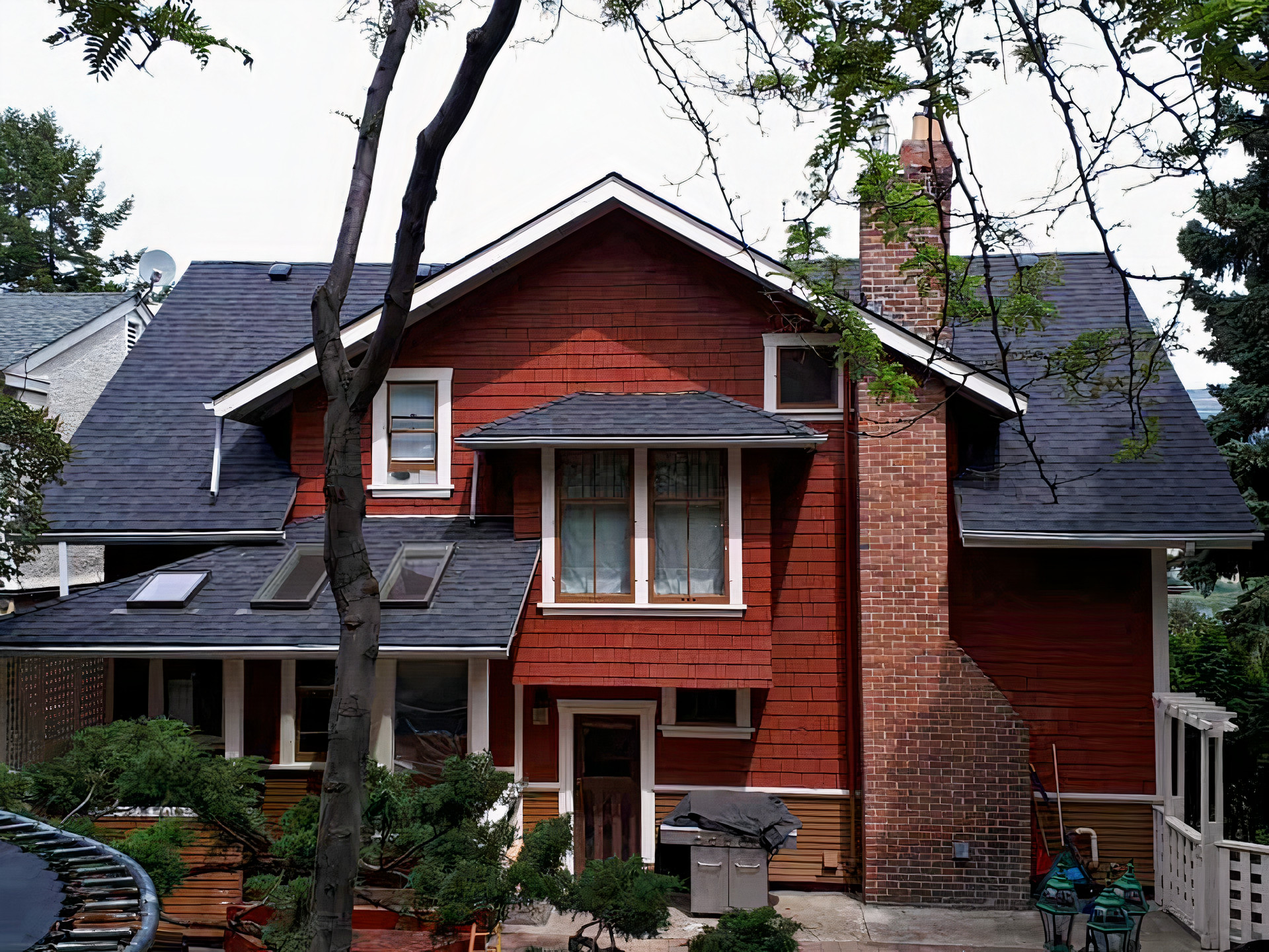
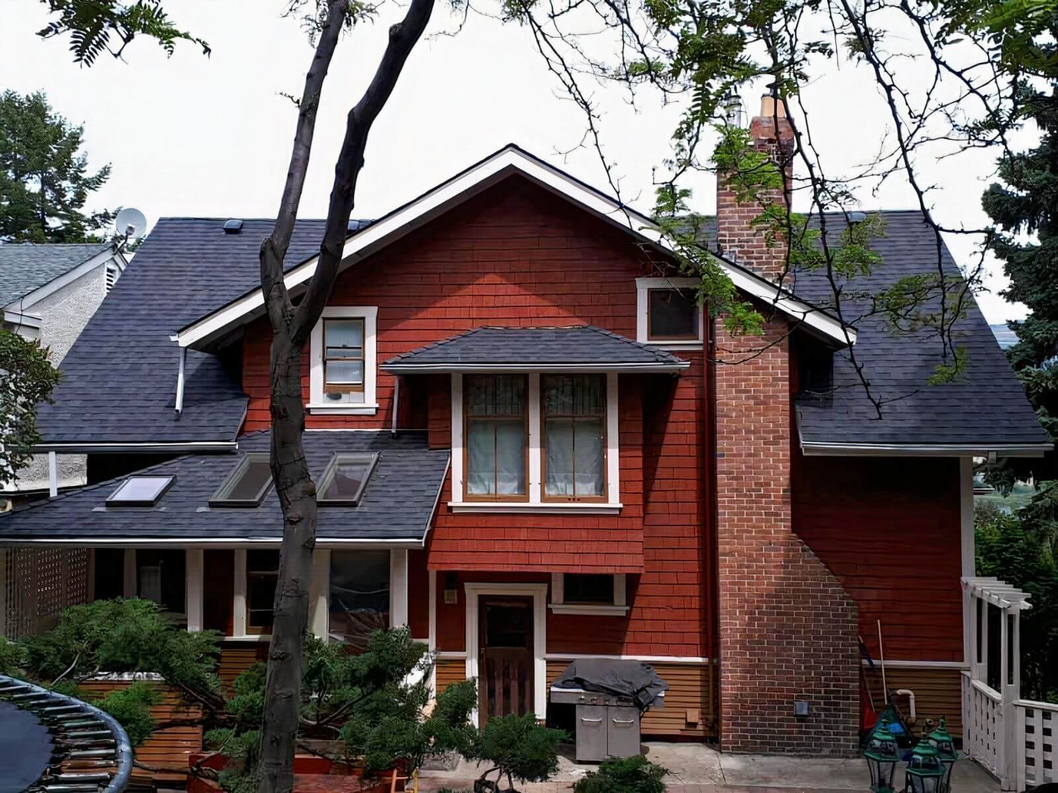
Better mobile, pics

diff --git a/index.html b/index.html
@@ -42,6 +42,12 @@
             .text-shadow {
                 text-shadow: 1px 1px 6px rgba(0,0,0,.4);
             }
+            
+            @media all and (max-height: 600px) and (max-width: 767px) {
+    
+                .center-mobile {
+                    text-align: center;
+                }
         
         </style>
 
@@ -133,7 +139,7 @@
                     <div class="container">
                         <div class="row">
                             <div class="col-3 col-md-2">
-                                <a href="index.html"> <img class="logo logo-dark" alt="logo" src="img/logo-dark.png"> <img class="logo logo-light" alt="logo" src="img/logo-light.png"> </a>
+                                <a href="index.html">  <img class="logo logo-light" alt="logo" src="img/logo-light.png"> </a>
                             </div>
                             <div class="col-9 col-md-10 text-right">
                                 <a href="#" class="hamburger-toggle" data-toggle-class="#menu1;hidden-xs hidden-sm"> <i class="icon icon--sm stack-interface stack-menu"></i> </a>
@@ -190,7 +196,7 @@
                 <div class="container pos-vertical-center">
                     <div class="row justify-content-between align-items-center">
                         <div class="col-lg-5 col-md-7">
-                            <div class="switchable__text" class="">
+                            <div class="switchable__text center-mobile" class="">
                                 <img class="logo logo-light" alt="logo" style="max-width: 288px" src="img/logo-light.png"> </a>
                                 <h3><b>Kamloops Roofing &amp; Renovation</b></h3>
                                 <p class="lead text-shadow"><strong style="color:white">Roofing for Kamloops, Lillooet, and Merritt. </strong><br>We ensure your roof protects your home from all of BC’s weather - keeping you and your family safe and sound all year round. </p>
@@ -232,7 +238,7 @@
                 </div>
             </section>
             
-            <section class="switchable switchable--switch imagebg height-60" data-overlay="4">
+            <section class="switchable switchable--switch imagebg height-70" data-overlay="5">
                 <div class="background-image-holder"><img alt="background" src="img/4.jpg"></div>
                 <div class="container pos-vertical-center">
                     <div class="row">
@@ -256,12 +262,12 @@
             </section> <a id="residential"></a>
             <section class="imageblock switchable feature-large">
                 <div class="imageblock__content col-lg-4 col-md-3 pos-right">
-                    <div class="background-image-holder"> <img alt="image" src="img/5.jpg"> </div>
+                    <div class="background-image-holder"> <img alt="image" src="img/residential.jpg"> </div>
                 </div>
                 <div class="container">
                     <div class="row">
                         <div class="col-lg-7 col-md-8">
-                            <h2><b>Residential Roofing for everyone</b></h2>
+                            <h2><b>Quality roofs for everyone</b></h2>
                             <p class="lead"><i>“T</i><em>he job isn’t done until the cleanup is finished.</em>”<br></p>
                             <div class="feature-large__group">
                                 <div class="row">
@@ -274,7 +280,7 @@
                                     <div class="col-md-6">
                                         <div class="feature feature-6"> <i class="icon color--primary material-icons icon--sm">wb_sunny</i>
                                             <h5>Headache Free</h5>
-                                            <p>Don't worry about a mess. It will be like we weren’t even there, except for your new roof! We will work hard and fast to provide you with a quality roof.<br></p>
+                                            <p>Don't worry about a mess. It will be like we weren’t even there, except for your new roof! We will work hard and fast to provide you with a quality roof. All of our roofs are WCB compliant <br></p>
                                         </div>
                                     </div>
                                 </div>
@@ -305,7 +311,7 @@
         
             <section class="imageblock switchable feature-large switchable--switch"> <a id="commercial"></a>
                 <div class="imageblock__content col-lg-4 col-md-3 pos-right"> 
-                    <div class="background-image-holder"> <img alt="image" src="img/6.jpg"> </div>
+                    <div class="background-image-holder"> <img alt="image" src="img/commercial.jpg"> </div>
                 </div>
                 <div class="container">
                     <div class="row">
@@ -349,7 +355,7 @@
                 <div class="container">
                     <div class="row">
                         <div class="col-md-12">
-                            <h1><b>See what your roof can look like</b></h1>
+                            <h1><b>See what your roof can look like:</b></h1>
                         </div>
                     </div>
                 </div>
@@ -438,7 +444,7 @@ Shinglesd</h4>  </div>
                     </div>
                 </div>
             </section>
-            <section class="imagebg parallax" data-overlay="4">
+            <section class="imagebg parallax" data-overlay="5">
                 <div class="background-image-holder"> <img alt="background" src="img/8.jpg"> </div>
                 <div class="container">
                     <div class="row">
@@ -514,7 +520,7 @@ Shinglesd</h4>  </div>
                 </div>
             </section>
         <a id="testimonials"></a>
-            <section class="text-center imagebg" data-overlay="4">
+            <section class="text-center imagebg" data-overlay="5">
                                 <div class="background-image-holder" style="background: url(&quot;img/hero-1.jpg&quot;); opacity: 1;">
                                     <img alt="background" src="img/9.jpg">
                                 </div>
